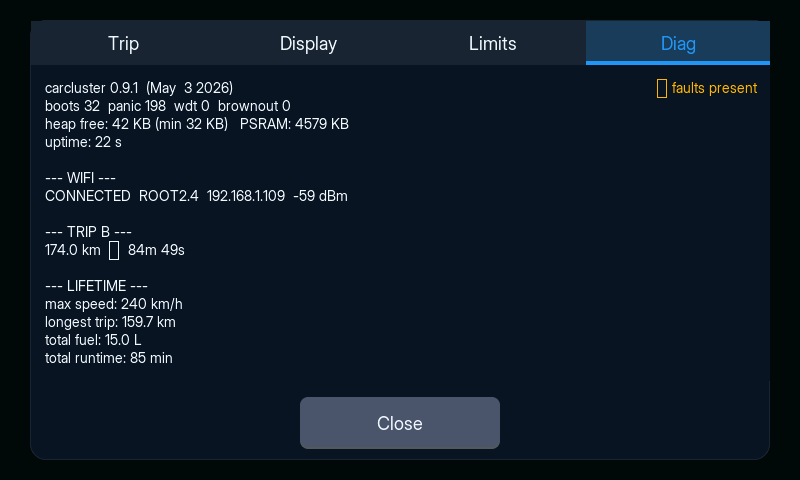
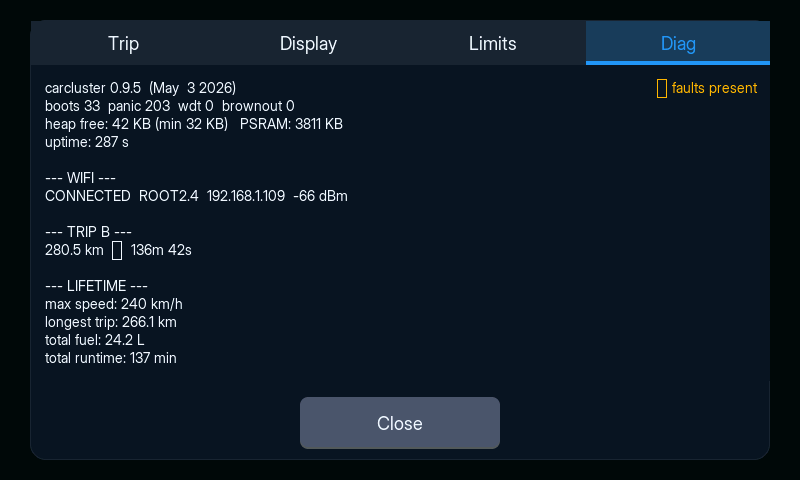
v0.9.5: UI rename — "Theme" → "View"
Cluster dünyasında "view" daha tutarlı bir terim (BMW iDrive views,
Audi MMI views, Tesla display views). Settings > Display sekmesindeki
header ve hint mesajı güncellendi.

Değişiklikler (sadece kullanıcı görünür string'ler):
  ui.c:    "THEME"                → "VIEW"
  ui.c:    "Restart to apply theme" → "Restart to apply view"
  main.c:  ESP_LOGI "Theme: ..."  → "View: ..."

Geriye dönük uyum için kod-içi identifier'lar değişmedi:
  theme.c/h, theme_id_t, theme_apply, persist_save_theme, NVS "theme"
  key, vs. — internal naming, kullanıcı görmez. NVS key değiştirseydim
  mevcut cihazlarda kayıtlı tema seçimi sıfırlanırdı.

diff --git a/main/ui.c b/main/ui.c
@@ -888,7 +888,7 @@ static void on_theme_pick(lv_event_t *e)
     persist_save_theme((uint8_t)id);
     update_theme_btn_styles(id);
     if (s_theme_hint_lbl) {
-        lv_label_set_text(s_theme_hint_lbl, "Restart to apply theme");
+        lv_label_set_text(s_theme_hint_lbl, "Restart to apply view");
         lv_obj_set_style_text_color(s_theme_hint_lbl, C_AMBER, 0);
     }
 }
@@ -1006,7 +1006,7 @@ static void build_tab_display(lv_obj_t *t)
 
     /* Theme satırı */
     lv_obj_t *theme_lbl = lv_label_create(t);
-    lv_label_set_text(theme_lbl, "THEME");
+    lv_label_set_text(theme_lbl, "VIEW");
     lv_obj_set_style_text_color(theme_lbl, C_DIM, 0);
     lv_obj_set_style_text_font(theme_lbl, &lv_font_inter_14, 0);
     lv_obj_align(theme_lbl, LV_ALIGN_TOP_MID, 0, 8);

diff --git a/main/main.c b/main/main.c
@@ -106,7 +106,7 @@ void app_main(void)
     /* Tema palet — ui_build'den önce global C_* renkleri set'le */
     theme_id_t theme = (theme_id_t)persist_load_theme();
     theme_apply(theme);
-    ESP_LOGI(TAG, "Theme: %s (%d)", theme_name(theme), theme);
+    ESP_LOGI(TAG, "View: %s (%d)", theme_name(theme), theme);
 
     /* Unit + limits — ui_build içinde formatter ve gauge bandı için */
     unit_init();

diff --git a/README.md b/README.md
@@ -5,7 +5,7 @@ ESP32-S3 + 7" 800×480 RGB TFT panel için **profesyonel araç gösterge paneli 
 > **Donanım**: Waveshare ESP32-S3-Touch-LCD-7 V1.2  
 > **Yazılım**: ESP-IDF v5.3.2 + LVGL v8.4  
 > **Performans**: R-FPS ~200, DR-FPS 38 (panel-limited), tear-free, ~626 KB PSRAM snapshot cache  
-> **Mevcut sürüm**: **v0.9.4** ([releases](https://github.com/haliskilic/carcluster/releases))
+> **Mevcut sürüm**: **v0.9.5** ([releases](https://github.com/haliskilic/carcluster/releases))
 
 ---
 
@@ -530,6 +530,7 @@ Schematic incelemesi sonrası bulunan eksiklikler:
 | **v0.9.2** | B5 — boot splash. **splash.c**: tam ekran siyah overlay + ortada beyaz "HK" monogram (lv_obj rect + lv_line diagonal'lar — Inter font'sız native render). lvgl_port_lock altında ui_build sonrasında splash_show çağrılır, tek frame'de cluster üzerine kapanır; 1500 ms görünür kalır, splash_hide ile atomik reveal. Cluster gelme süresi DEĞİŞMEZ — paralel build, kullanıcı algıladığı boot süresi azalır (siyah ekran yerine logo). cmd_listener_start splash öncesi taşındı (auto-screenshot tooling splash'ı yakalayabilsin). |
 | **v0.9.3** | Boot splash logo upgrade. Monogram → **HK Digital Clusters** PNG (800×480, neon mavi/yeşil çevre kartı estetik). **tools/png_to_lvgl.py**: PNG → RGB565 little-endian C array, lv_img_dsc_t header. **main/splash_logo.c** (auto-generated, 4.8 MB source → 768 KB binary embed). splash.c lv_img widget'la blit eder. Binary 1.97 MB / 2 MB OTA partition (%6 free). Aynı pipeline gelecekte tema-spesifik logolar veya ek asset'ler için kullanılabilir. |
 | **v0.9.4** | Boot splash logo refresh — `docs/img/bootsplash.png` daha temiz / orta hizalı sürümle güncellendi, `tools/png_to_lvgl.py` ile `main/splash_logo.c` yeniden üretildi. Kod değişikliği yok, sadece embed asset farklı. |
+| **v0.9.5** | UI rename — Settings > Display sekmesinde "THEME" → "VIEW", "Restart to apply theme" → "Restart to apply view". Cluster terminolojisinde "view" daha tutarlı (BMW/Audi/Tesla'da da bu terim). Kod-içi `theme_*` identifier'lar geriye dönük uyum için olduğu gibi kaldı (NVS key, file isimleri, fonksiyonlar). |
 
 ```bash
 git tag -l    # tüm versiyonlar
